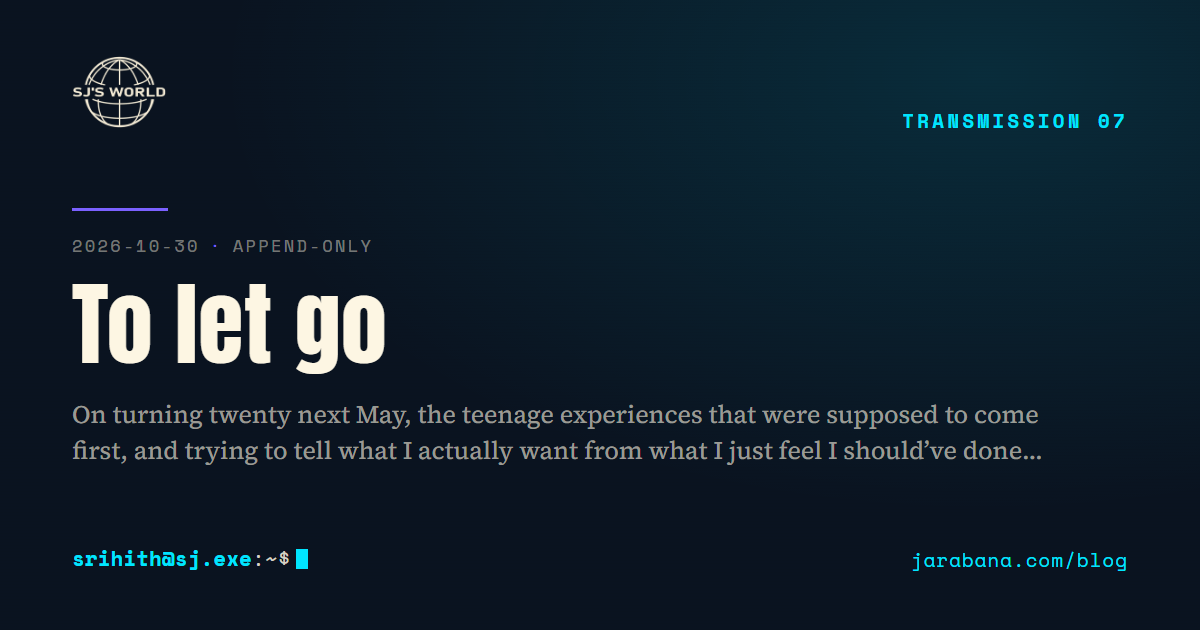
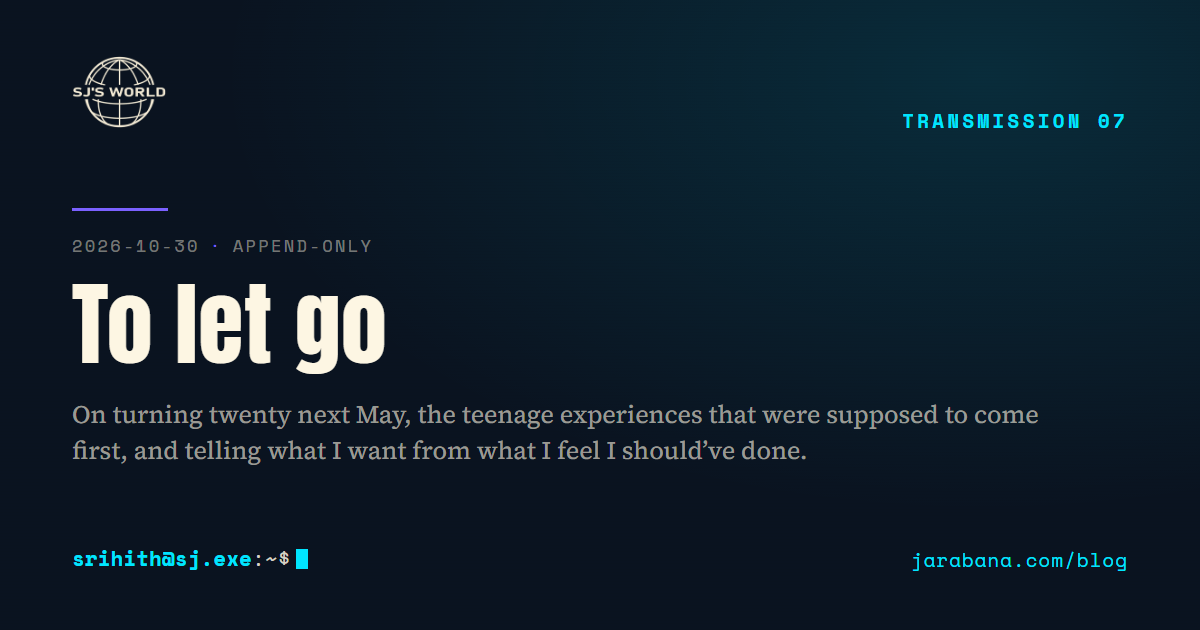
fix: shorten the to let go abstract so it fits its card
The card clamps the abstract to two lines, and the original ran past them and cut off mid-sentence. Metadata, not prose, so the no-edit rule does not apply.

Changed region(s): [[0.1542, 0.6937, 0.8633, 0.754]]

diff --git a/src/data/posts.ts b/src/data/posts.ts
@@ -17,7 +17,7 @@ export const posts: Post[] = [
     title: 'To let go',
     subtitle: 'The teenager critique',
     abstract:
-      'On turning twenty next May, the teenage experiences that were supposed to come first, and trying to tell what I actually want from what I just feel I should’ve done by now.',
+      'On turning twenty next May, the teenage experiences that were supposed to come first, and telling what I want from what I feel I should’ve done.',
   },
   {
     slug: 'youll-pick-it-up',
